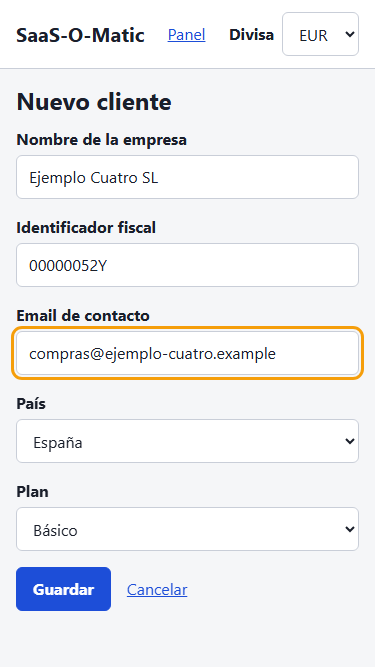
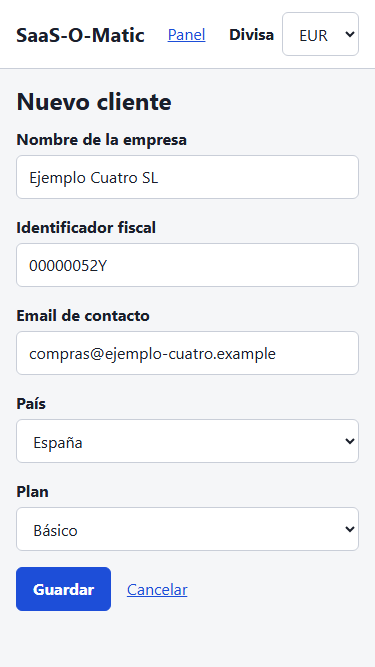
test(frontend): las capturas se toman sin el foco en ningún campo
El anillo de foco sobre el último campo escrito parecía un aviso de
error. Capturas generadas de nuevo (SPEC-04/CA-15).

diff --git a/frontend/e2e/capturas/capturas.spec.ts b/frontend/e2e/capturas/capturas.spec.ts
@@ -61,6 +61,12 @@ async function createExampleData(request: APIRequestContext): Promise<number> {
 }
 
 async function capture(page: Page, name: string): Promise<void> {
+  // Without the focus: its ring around the last field written looks like a warning.
+  await page.evaluate(() => {
+    if (document.activeElement instanceof HTMLElement) {
+      document.activeElement.blur();
+    }
+  });
   const width = page.viewportSize()?.width;
   await page.screenshot({
     path: join(FOLDER, `${name}-${width}.png`),
